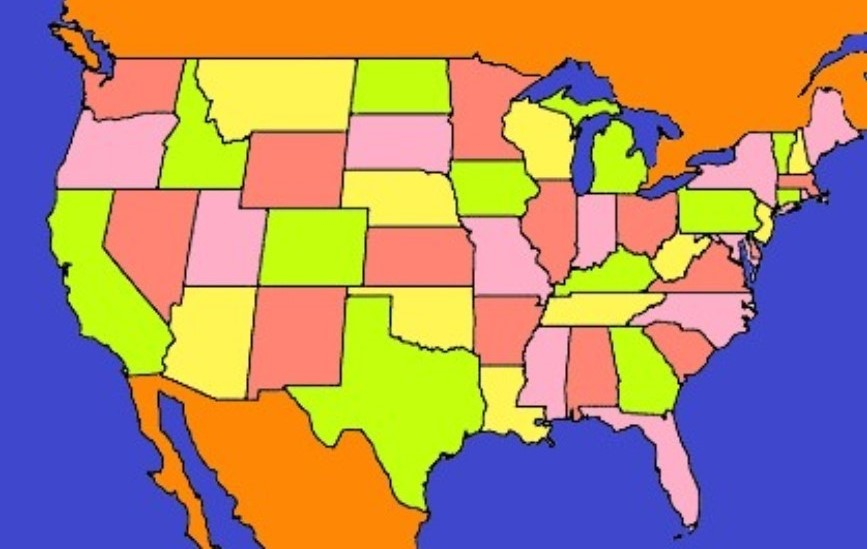
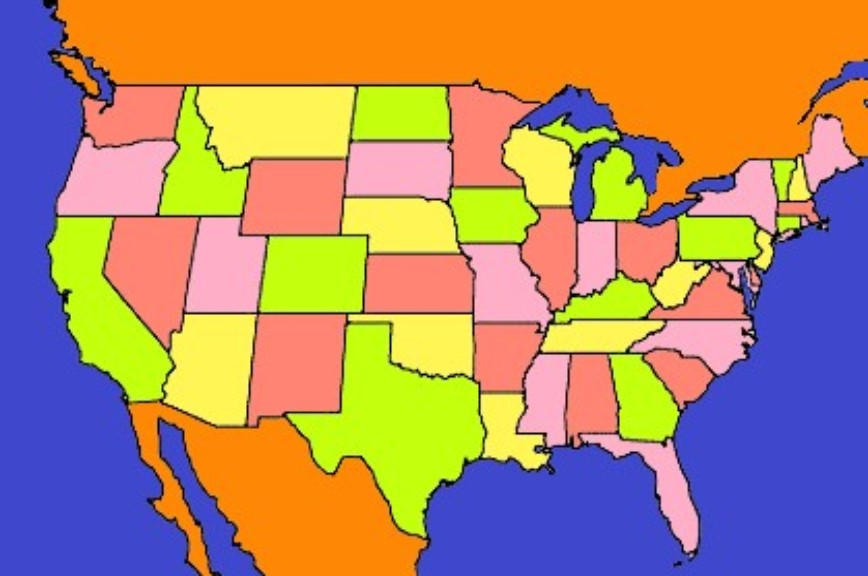
Add side to map and fix window resolution

Changed region(s): [[0.0311, 0.0, 1.0, 0.9909], [0.4671, 0.9909, 0.4983, 1.0]]

diff --git a/src/main/java/net/randompvp/icbm/ICBMTycoon.java b/src/main/java/net/randompvp/icbm/ICBMTycoon.java
@@ -5,7 +5,6 @@
 
 package net.randompvp.icbm;
 
-import java.awt.BorderLayout;
 import java.awt.Color;
 import java.awt.Dimension;
 import java.awt.Font;
@@ -40,10 +39,11 @@ public class ICBMTycoon implements ActionListener {
 		frame = new JFrame();
 		panel = new JPanel();
 		panel.setLayout(null);
-		frame.add(panel, BorderLayout.CENTER);
+		panel.setBackground(Color.GRAY);
 		frame.setDefaultCloseOperation(JFrame.EXIT_ON_CLOSE);
 		frame.setResizable(false); // Prevent the window from being resized
-		frame.setMinimumSize(new Dimension(windowWidth, windowHeight)); // Set the dimensions of the window
+		panel.setPreferredSize(new Dimension(windowWidth, windowHeight)); // Set the dimensions of the window
+		frame.getContentPane().add(panel);
 		frame.setTitle("Ed's ICBM Tycoon"); // Set the title of the window
 		frame.setVisible(true);
         frame.pack();
@@ -87,6 +87,15 @@ public class ICBMTycoon implements ActionListener {
 		return (windowWidth - width) / 2;
 	}
 	
+	JLabel initializeImage(String imageName) {
+		try {
+			return new JLabel(new ImageIcon(ImageIO.read(getClass().getResourceAsStream("/" + imageName + ".jpg"))));
+		} catch (IOException e) {
+			e.printStackTrace();
+		}
+		return null;
+	}
+	
 	public static void main(String[] args) {
 		new ICBMTycoon();
 	}
@@ -102,7 +111,7 @@ public class ICBMTycoon implements ActionListener {
 		JLabel welcome = new JLabel("Welcome to Ed's ICBM Tycoon! Press the Start button to continue");
 		JLabel author = new JLabel("Developed by Ramiro");
 		JLabel author2 = new JLabel("Concept by Ed");
-		JLabel icbmImage = initializeImage();
+		JLabel icbmImage = initializeImage("icbm");
 		
 		public Welcome() {
 			int buttonWidth = 140;
@@ -140,15 +149,6 @@ public class ICBMTycoon implements ActionListener {
 			icbmImage.add(author2);
 			author2.setBounds(cenElement(80), 102, 80, 14);
 			author2.setForeground(Color.WHITE);
-		}
-		
-		JLabel initializeImage() {
-			try {
-				return new JLabel(new ImageIcon(ImageIO.read(getClass().getResourceAsStream("/icbm.jpg"))));
-			} catch (IOException e) {
-				e.printStackTrace();
-			}
-			return null;
 		}
 		
 		@Override
@@ -334,20 +334,15 @@ public class ICBMTycoon implements ActionListener {
 	}
 	
 	class GameMap extends Page {
-		JLabel usMap = initializeImage();
+		JLabel usMap = initializeImage("map");
+		JLabel side = initializeImage("side");
 		
 		public GameMap() {
 			panel.add(usMap);
-			usMap.setBounds(0, 0, 867, 549);
-		}
-		
-		JLabel initializeImage() {
-			try {
-				return new JLabel(new ImageIcon(ImageIO.read(getClass().getResourceAsStream("/map.jpg"))));
-			} catch (IOException e) {
-				e.printStackTrace();
-			}
-			return null;
+			usMap.setBounds(0, 0, 868, windowHeight);
+			
+			panel.add(side);
+			side.setBounds(868, 0, 191, 681);
 		}
 		
 		@Override
